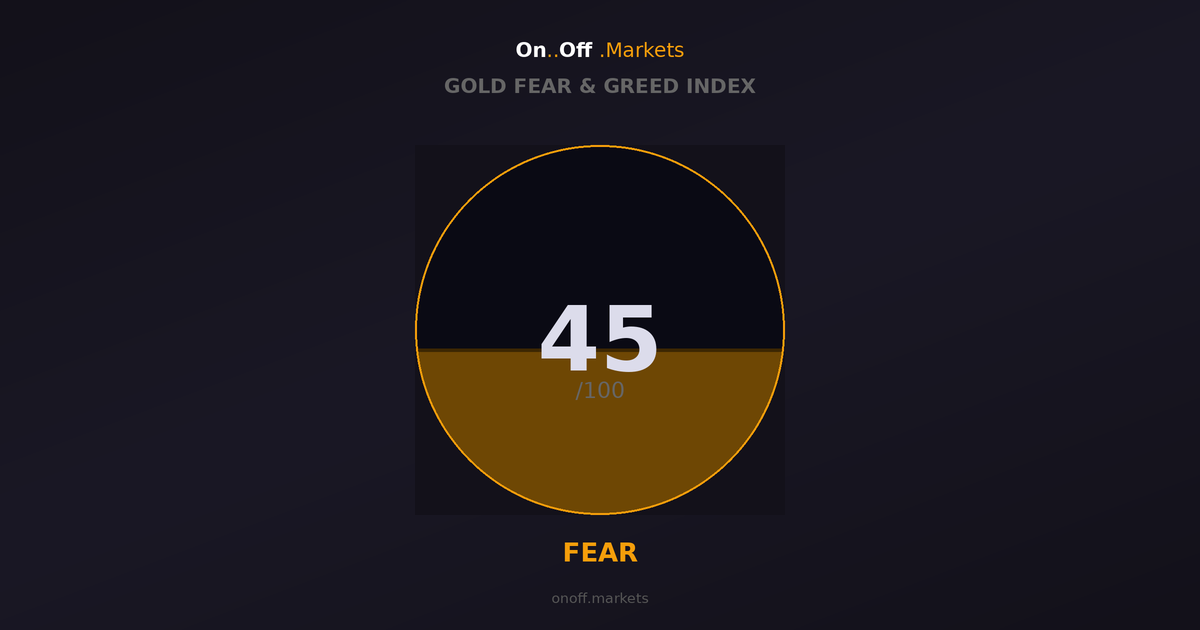
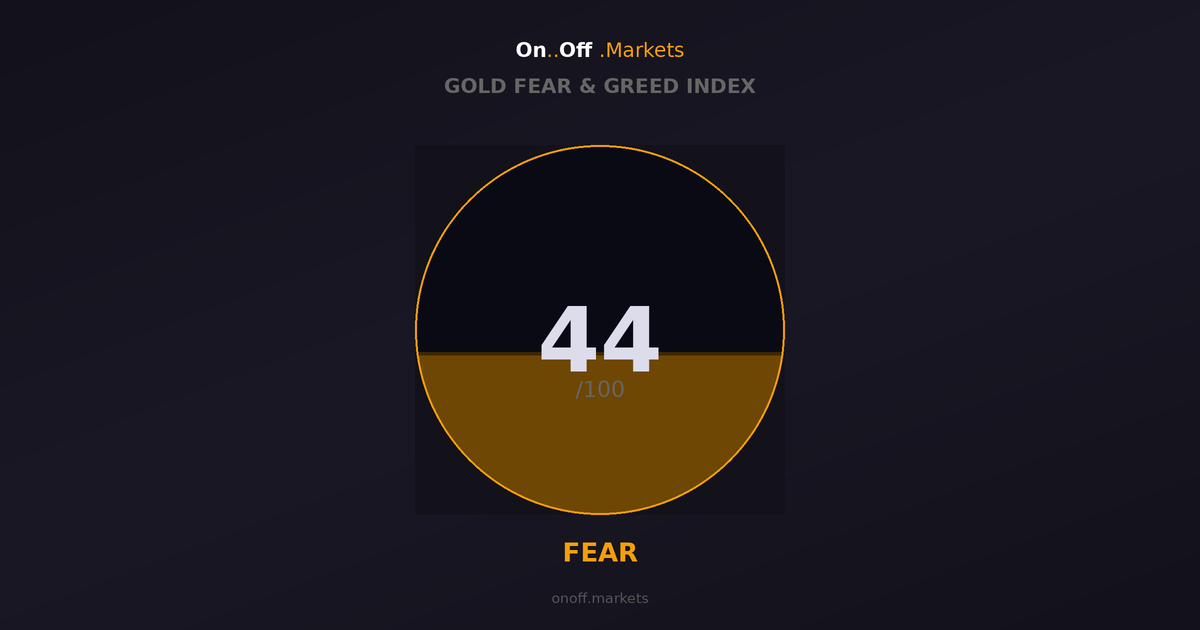
Update Gold, Stocks, Crypto & Bonds Fear & Greed Indices - 2026-08-03 05:43 UTC

Changed region(s): [[0.3392, 0.4825, 0.6475, 0.6333]]

diff --git a/index.html b/index.html
@@ -16,7 +16,7 @@
     <link rel="canonical" href="https://onoff.markets/">
 
     <!-- SEO Meta Tags -->
-    <meta name="description" content="Market sentiment is 50 (neutral). Gold 45, Bonds 41, Stocks 58, Crypto 57. Track real-time Fear &amp; Greed across 4 asset classes. Updated daily.">
+    <meta name="description" content="Market sentiment is 49 (neutral). Gold 44, Bonds 41, Stocks 58, Crypto 53. Track real-time Fear &amp; Greed across 4 asset classes. Updated daily.">
     <meta name="keywords" content="market sentiment, fear and greed index, gold sentiment, bonds sentiment, crypto fear greed, stock market sentiment, market fear greed">
     <meta name="author" content="OnOff.Markets">
 
@@ -41,10 +41,10 @@
         "@type": "WebApplication",
         "name": "OnOff.Markets — Fear & Greed Index",
         "url": "https://onoff.markets",
-        "description": "Market sentiment is 50 (neutral). Gold 45, Bonds 41, Stocks 58, Crypto 57. Track real-time Fear & Greed across 4 asset classes. Updated daily.",
+        "description": "Market sentiment is 49 (neutral). Gold 44, Bonds 41, Stocks 58, Crypto 53. Track real-time Fear & Greed across 4 asset classes. Updated daily.",
         "applicationCategory": "FinanceApplication",
         "operatingSystem": "All",
-        "dateModified": "2026-08-02",
+        "dateModified": "2026-08-03",
         "offers": {
                 "@type": "Offer",
                 "price": "0",
@@ -575,7 +575,7 @@
         <div class="header">
             <h1>Market Sentiment</h1>
             <div class="tagline">Are investors fearful or greedy today?</div>
-            <div class="updated" id="updated">Updated: August 02, 2026</div>
+            <div class="updated" id="updated">Updated: August 03, 2026</div>
         </div>
 
         <!-- Hero Score: Circle Gauge -->
@@ -599,7 +599,7 @@
                         <rect id="water-fill" x="0" y="200" width="200" height="200" fill="url(#fill-gradient)" />
                         <path id="wave" d="" fill="url(#fill-gradient)" opacity="0.6" />
                     </g>
-                    <text x="100" y="82" class="circle-score-text" id="score" text-anchor="middle" dominant-baseline="central">50</text>
+                    <text x="100" y="82" class="circle-score-text" id="score" text-anchor="middle" dominant-baseline="central">49</text>
                     <text id="sentimentArrow" class="circle-arrow" x="138" y="82" text-anchor="start" dominant-baseline="central"></text>
                     <text x="100" y="107" class="circle-suffix" text-anchor="middle" dominant-baseline="central">/100</text>
                     <text x="100" y="155" class="circle-label" id="label" text-anchor="middle" dominant-baseline="central">NEUTRAL</text>
@@ -613,7 +613,7 @@
                 <span class="insight-icon">💡</span>
                 <h2 class="insight-title">What's happening</h2>
             </div>
-            <div class="insight-text" id="insight">The Fed held rates at 3.5–3.75% on July 29 but three FOMC members dissented in favor of a hike, an &quot;uncomfortable hold&quot; that is keeping real rates elevated and bond duration under pressure. Hawkish dissent reflects price pressures tied to both Trump tariffs and higher energy costs from the Iran conflict, which is supporting the dollar and weighing on long bonds even as equity volatility stays low.</div>
+            <div class="insight-text" id="insight">The Fed held rates unchanged last week but shifted its statement to acknowledge significant progress toward its 2% inflation target, and a cooling PCE print reinforced the view that tightening is over.</div>
             <div class="context-section" id="contextBox" style="display:none;">
                 <div class="context-label"><span class="context-icon">📰</span>Context <span class="beta-tag">Beta</span></div>
                 <div class="context-text" id="contextText"></div>
@@ -646,7 +646,7 @@
                             <rect id="goldFill" x="0" y="100" width="100" height="100" fill="url(#mini-grad-gold)"/>
                             <path id="goldWave" d="" fill="url(#mini-grad-gold)" opacity="0.5"/>
                         </g>
-                        <text x="50" y="50" class="mini-score-text" id="goldValue" text-anchor="middle" dominant-baseline="central">45</text>
+                        <text x="50" y="50" class="mini-score-text" id="goldValue" text-anchor="middle" dominant-baseline="central">44</text>
                     </svg>
                 </div>
                 <div class="asset-trend" id="goldTrend"></div>
@@ -730,7 +730,7 @@
                             <rect id="cryptoFill" x="0" y="100" width="100" height="100" fill="url(#mini-grad-crypto)"/>
                             <path id="cryptoWave" d="" fill="url(#mini-grad-crypto)" opacity="0.5"/>
                         </g>
-                        <text x="50" y="50" class="mini-score-text" id="cryptoValue" text-anchor="middle" dominant-baseline="central">57</text>
+                        <text x="50" y="50" class="mini-score-text" id="cryptoValue" text-anchor="middle" dominant-baseline="central">53</text>
                     </svg>
                 </div>
                 <div class="asset-trend" id="cryptoTrend"></div>
